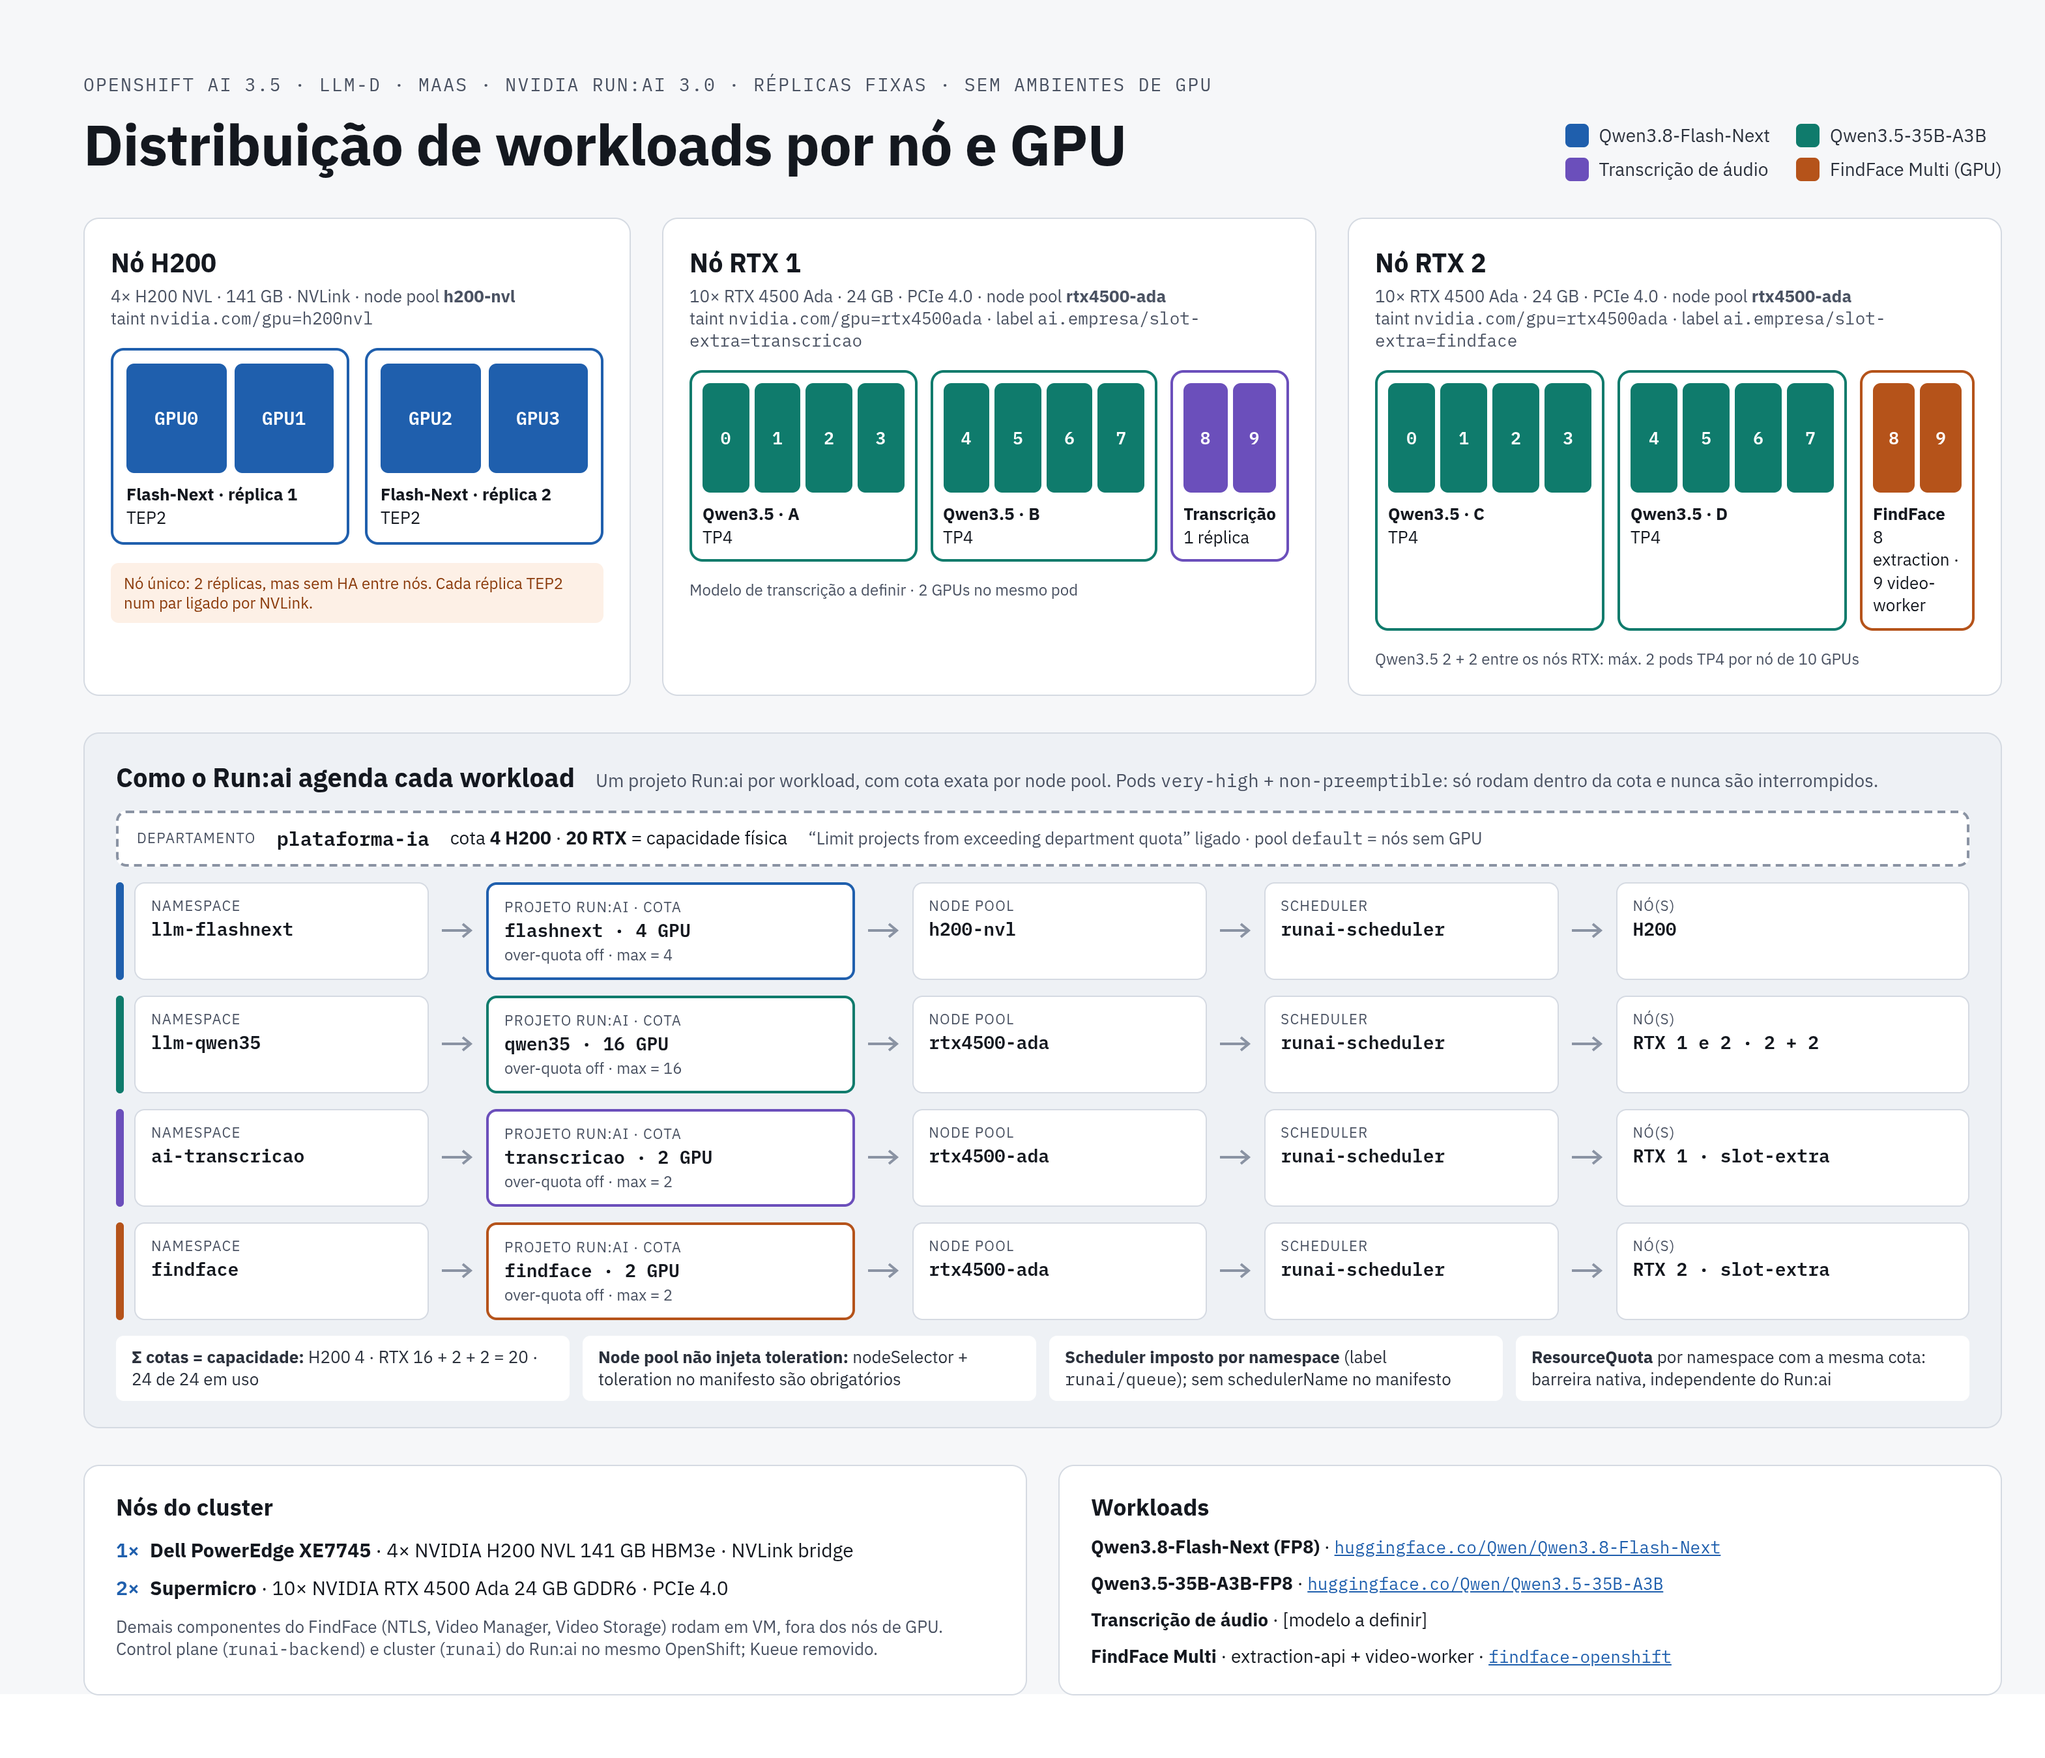
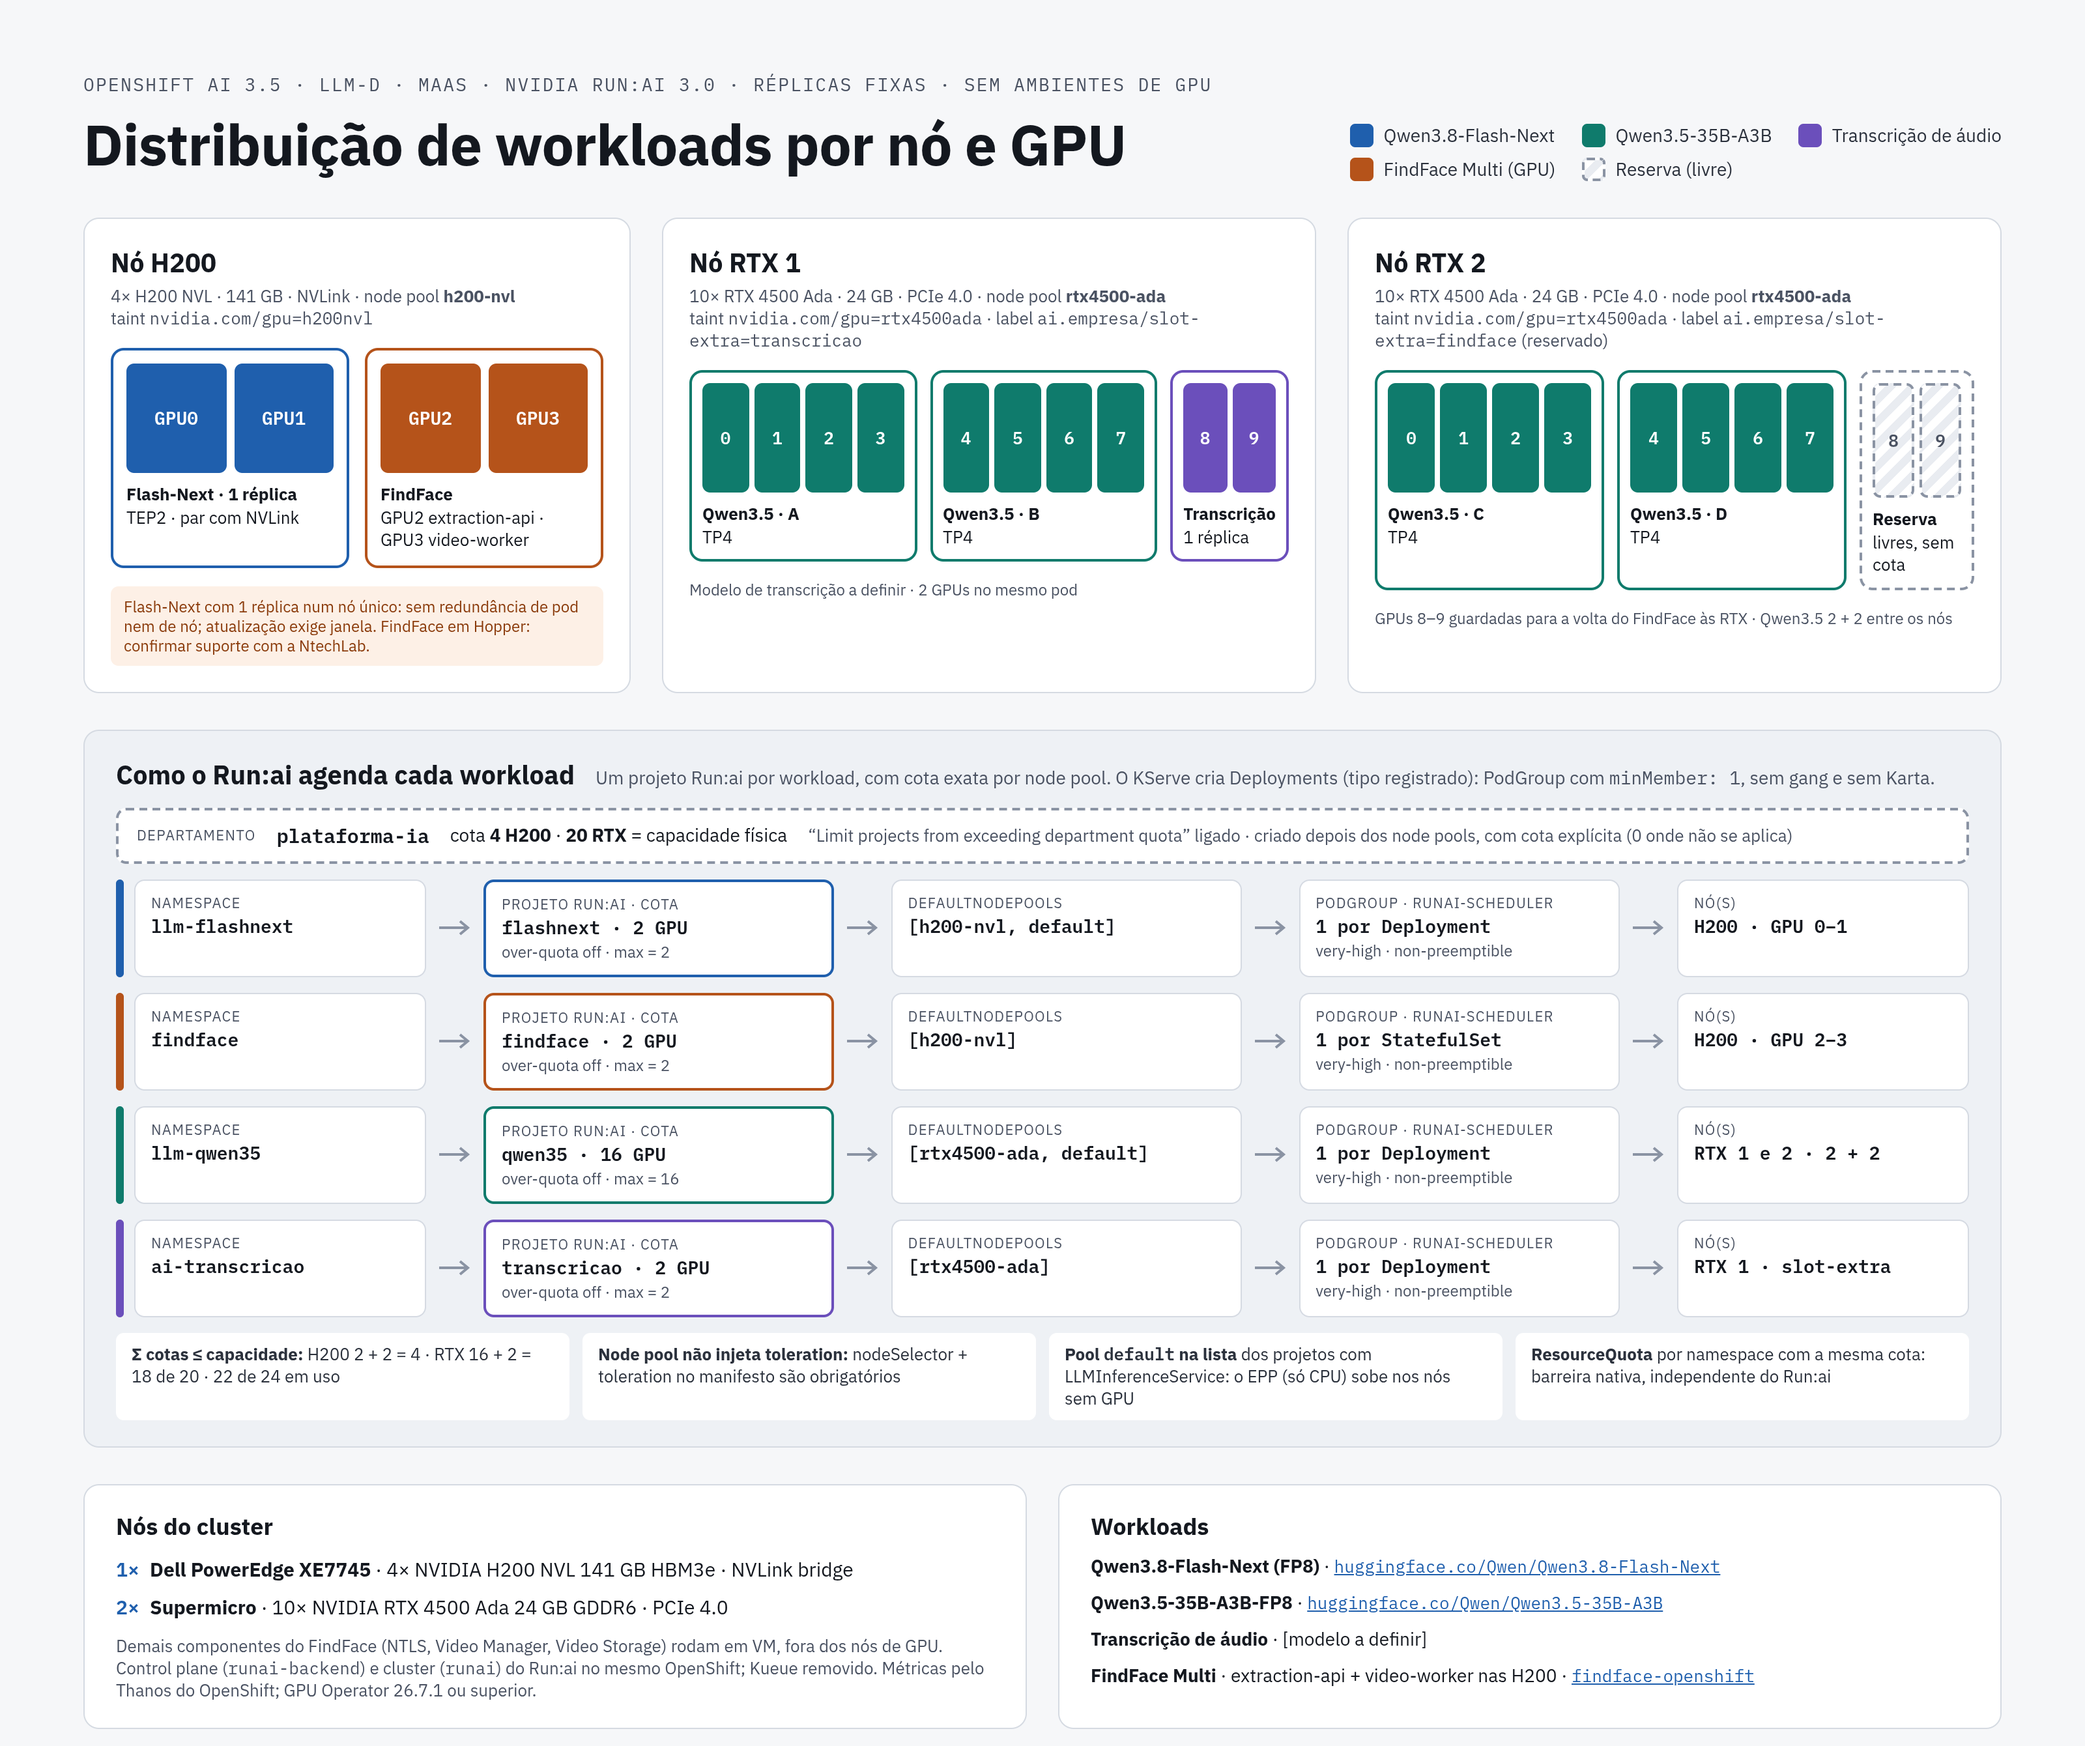
Altera desenho arquitetura

diff --git a/README.md b/README.md
@@ -2,8 +2,6 @@
 
 ## Como usar este documento
 
-Este tutorial troca o Red Hat build of Kueue pelo NVIDIA Run:ai self-hosted 3.0 como agendador e controle de cota das GPUs. O resto do desenho (RHOAI 3.5, llm-d, MaaS, Connectivity Link, FindFace) continua igual.
-
 **Plataforma:** Red Hat OpenShift AI 3.5 · OpenShift 4.22 · Distributed Inference with llm-d · Models-as-a-Service (MaaS) · NVIDIA Run:ai self-hosted 3.0 (control plane e cluster no mesmo OpenShift)
 
 **Workloads de GPU:** Qwen3.8-Flash-Next (FP8), Qwen3.5-35B-A3B-FP8, modelo de transcrição de áudio (a definir) e componentes de GPU do FindFace Multi
@@ -14,7 +12,6 @@ Este tutorial troca o Red Hat build of Kueue pelo NVIDIA Run:ai self-hosted 3.0 
 - **Parte 2 – Implantação passo a passo:** do cluster vazio até os workloads respondendo, na ordem de execução.
 - **Parte 3 – Operação:** atualizações, mudanças de capacidade, upgrade do Run:ai e o procedimento para **remover o Run:ai**, se for necessário.
 
-> **Status de validação (6 nov 2026):** as Etapas 1 a 15 foram reproduzidas em laboratório com OpenShift 4.22.14, RHOAI 3.5.2, RHCL 1.4.4, GPU Operator 26.7.2 e Run:ai 3.0.20 (edição Open Source), em **4 nós com 1 NVIDIA L4 cada**. Para caber no hardware, os dois tipos de GPU foram simulados com um label próprio (2 nós por pool), os LLMs foram trocados por modelos pequenos (1 GPU por pod) e FindFace e transcrição por pods CUDA de teste. A remoção do Run:ai e a reinstalação (Parte 3, seção 4) também foram executadas, com tráfego contínuo pelo MaaS. O que **não** foi testado: TP/TEP com várias GPUs por pod, NVLink, frações de GPU e o FindFace real. As correções que o laboratório exigiu estão incorporadas no texto e marcadas como **(validado em laboratório)**; o resumo está na seção 8 da Parte 1.
 
 ### Diagrama da arquitetura
 
